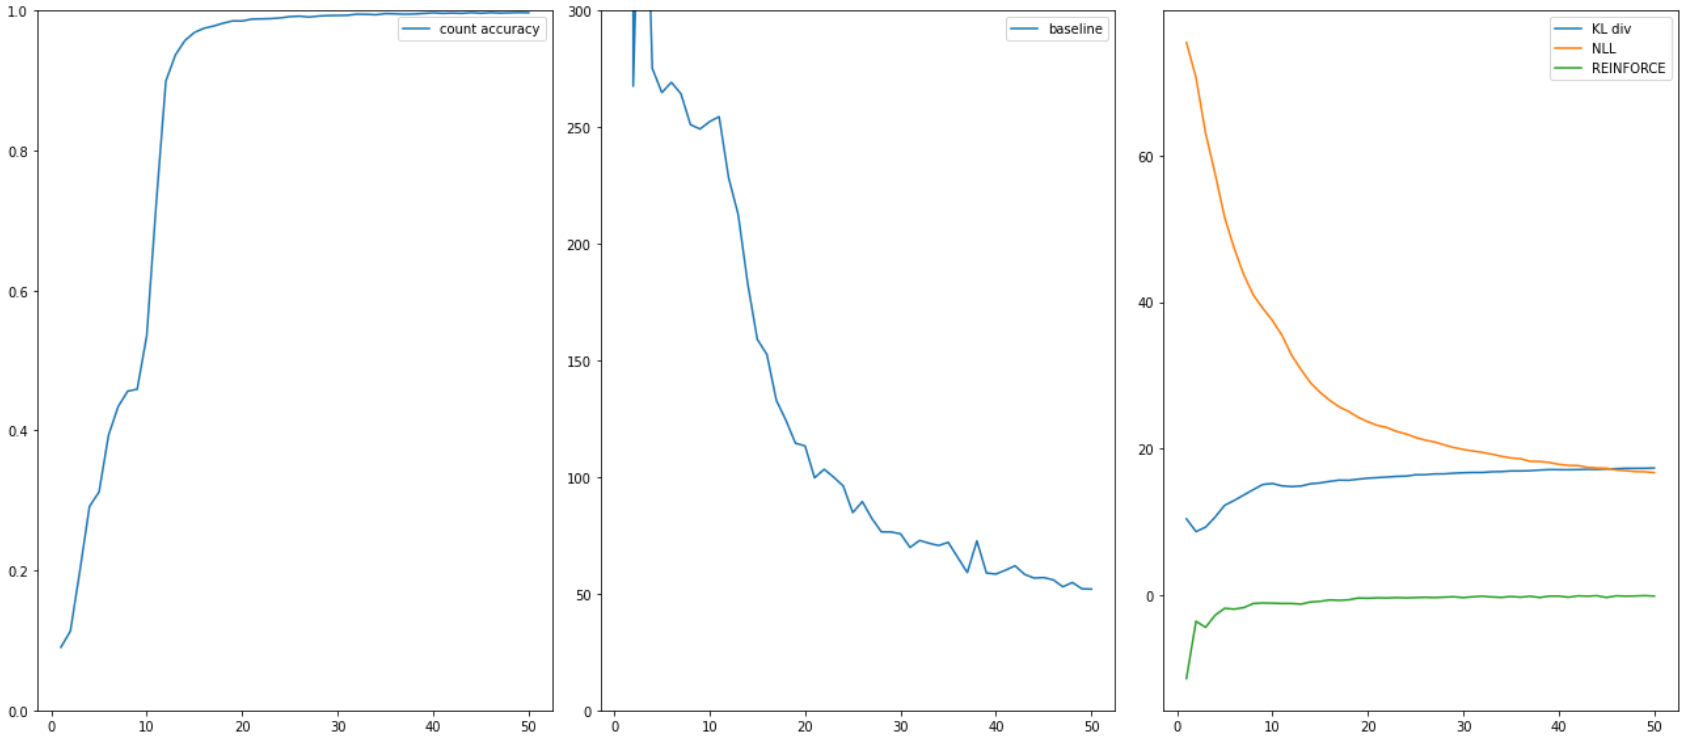
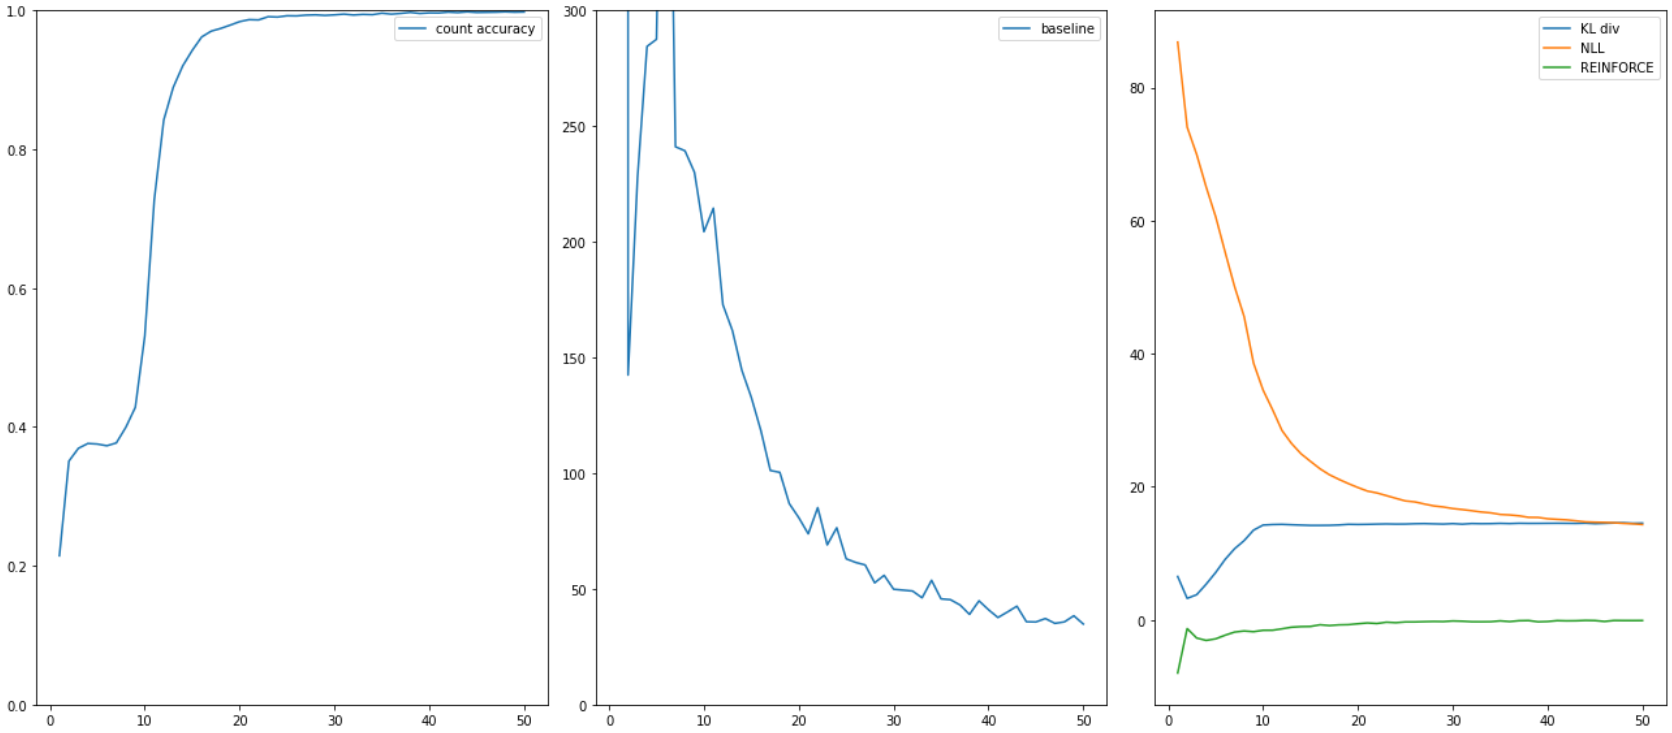
update AIR using absolute instead of sigmoid

diff --git a/_posts/101/probability_theory/2020-09-10-ELBO.md b/_posts/101/probability_theory/2020-09-10-ELBO.md
@@ -7,7 +7,7 @@ type: "101 probability"
 ---
 
 
-Consider the following case:  
+Consider the following case:
 Let $\textbf{X} = \\{\textbf{x}^{(i)}\\}\_{i=1}^N$ denote a dataset
 consisting of $N$ i.i.d. samples where each observed datapoint
 $\textbf{x}^{(i)}$ is generated from a process in which firstly a
@@ -22,21 +22,21 @@ p\_{\boldsymbol{\theta}}(\textbf{x}^{(i)})$ **given an variational
 approximation** $q\_{\boldsymbol{\phi}} \left(\textbf{z} |
 \textbf{x}^{(i)} \right)$ **of the true posterior**
 $p\_{\boldsymbol{\theta}} \left( \textbf{z} |
-\textbf{x}^{(i)}\right)$, i.e., 
+\textbf{x}^{(i)}\right)$, i.e.,
 
 $$
   0 \ge \log p_{\boldsymbol{\theta}} (\textbf{x}^{(i)}) = \underbrace{D_{KL} \left(
   q_{\boldsymbol{\phi}} \left( \textbf{z} | \textbf{x}^{(i)} \right)
-  || 
+  ||
   p_{\boldsymbol{\theta}} \left( \textbf{z} |
   \textbf{x}^{(i)}\right)\right)}_{\ge 0} + \mathcal{L} \left(
-  \boldsymbol{\theta}, \boldsymbol{\phi}; \textbf{x}^{(i)}\right) 
+  \boldsymbol{\theta}, \boldsymbol{\phi}; \textbf{x}^{(i)}\right)
 $$
 
-with 
+with
 
 $$
-  \log p_{\boldsymbol{\theta}} \ge 
+  \log p_{\boldsymbol{\theta}} \ge
   \mathcal{L} \left( \boldsymbol{\theta}, \boldsymbol{\phi};
   \textbf{x}^{(i)} \right) = - D_{KL} \left( q_{\boldsymbol{\phi}}
   \left( \textbf{z} | \textbf{x}^{(i)} \right) ||
@@ -47,9 +47,9 @@ $$
 $$
 
 where $p\_{\boldsymbol{\theta}} (\textbf{z})$ is a prior on the latent
-distribution. 
+distribution.
 
-Variational Bayesian methods are a very popular framework in machine 
+Variational Bayesian methods are a very popular framework in machine
 learning, since they allow to cast statistical inference problems into
 optimization problems. E.g., the inference problem of determining the
 true posterior distribution $p\_{\boldsymbol{\theta}} \left( \textbf{z} |
@@ -58,10 +58,10 @@ maximizing the ELBO using/introducing a variational approximation
 $q\_{\boldsymbol{\phi}} \left(\textbf{z} | \textbf{x} \right)$ and a
 latent prior $p\_{\boldsymbol{\theta}} (\textbf{z})$. This is the main
 idea of [variational auto-encoders
-VAEs](https://borea17.github.io/paper_summaries/auto-encoding_variational_bayes)
+(VAEs)](https://borea17.github.io/paper_summaries/auto-encoding_variational_bayes)
 by [Kingma and Welling (2013)](https://arxiv.org/abs/1312.6114).
 
-**Derivation**: 
+**Derivation**:
 
 Let's start with the optimization problem:
 
@@ -75,9 +75,9 @@ that the true probability distributions are as similiar as possible
 (have minimal KL divergence, just ignore the fact that the KL
 divergence is not symmetric). Actually, we cannot compute this
 quantity since we do not have access to the true posterior (if we had,
-we wouldn't need to introduce a variational approximation). 
+we wouldn't need to introduce a variational approximation).
 
-However, we can rewrite the KL divergence as follows 
+However, we can rewrite the KL divergence as follows
 
 $$
 \begin{align}
@@ -87,13 +87,13 @@ q_{\boldsymbol{\phi}} \left(\textbf{z} | \textbf{x} \right) \log \frac
 {q_{\boldsymbol{\phi}} \left(\textbf{z} | \textbf{x} \right)} {p_{\boldsymbol{\theta}} \left( \textbf{z} |
 \textbf{x}\right)} d\textbf{z}\\
 &= \mathbb{E}_{\textbf{z} \sim q_{\boldsymbol{\phi}} \left(\textbf{z}
-| \textbf{x} \right)} 
+| \textbf{x} \right)}
 \left[\log q_{\boldsymbol{\phi}} \left(\textbf{z} | \textbf{x} \right) - \log p_{\boldsymbol{\theta}} \left( \textbf{z} |
 \textbf{x}\right) \right]
 \end{align}
 $$
 
-Remember Bayes rule: 
+Remember Bayes rule:
 
 $$
 p_{\boldsymbol{\theta}} \left( \textbf{z} |
@@ -108,17 +108,17 @@ $$
 \begin{align}
 D_{KL} \left[ q_{\boldsymbol{\phi}} \left(\textbf{z} | \textbf{x} \right) || p_{\boldsymbol{\theta}} \left( \textbf{z} |
 \textbf{x}\right) \right] & =  \mathbb{E}_{\textbf{z} \sim q_{\boldsymbol{\phi}} \left(\textbf{z}
-| \textbf{x} \right)} 
+| \textbf{x} \right)}
 \left[ \log q_{\boldsymbol{\phi}} \left(\textbf{z} | \textbf{x}
 \right) - \left(\log  p_{\boldsymbol{\theta}} \left( \textbf{x} |
-\textbf{z} \right) + \log p_{\boldsymbol{\theta}} \left( \textbf{z} \right) 
+\textbf{z} \right) + \log p_{\boldsymbol{\theta}} \left( \textbf{z} \right)
 - \log p_{\boldsymbol{\theta}} \left(\textbf{x}\right)
  \right)\right] \\
  &=\mathbb{E}_{\textbf{z} \sim q_{\boldsymbol{\phi}} \left(\textbf{z}
-| \textbf{x} \right)} 
+| \textbf{x} \right)}
 \left[ \log q_{\boldsymbol{\phi}} \left(\textbf{z} | \textbf{x}
 \right) - \log  p_{\boldsymbol{\theta}} \left( \textbf{x} |
-\textbf{z} \right) - \log p_{\boldsymbol{\theta}} \left( \textbf{z} \right) 
+\textbf{z} \right) - \log p_{\boldsymbol{\theta}} \left( \textbf{z} \right)
 \right] + \log p_{\boldsymbol{\theta}} \left(\textbf{x}\right)
 \end{align}
 $$
@@ -132,10 +132,10 @@ $$
 \log p_{\boldsymbol{\theta}} \left(\textbf{x}\right) &=  D_{KL} \left[ q_{\boldsymbol{\phi}} \left(\textbf{z} | \textbf{x} \right) || p_{\boldsymbol{\theta}} \left( \textbf{z} |
 \textbf{x}\right) \right] \\
 &\quad - \underbrace{\mathbb{E}_{\textbf{z} \sim q_{\boldsymbol{\phi}} \left(\textbf{z}
-| \textbf{x} \right)} 
+| \textbf{x} \right)}
 \left[ \log q_{\boldsymbol{\phi}} \left(\textbf{z} | \textbf{x}
 \right) - \log  p_{\boldsymbol{\theta}} \left( \textbf{x} |
-\textbf{z} \right) - \log p_{\boldsymbol{\theta}} \left( \textbf{z} \right) 
+\textbf{z} \right) - \log p_{\boldsymbol{\theta}} \left( \textbf{z} \right)
 \right] + \log p_{\boldsymbol{\theta}} \left(\textbf{x}\right)}_{- \mathcal{L}}
 \end{align}
 $$
@@ -145,15 +145,15 @@ Some final rewritings
 $$
 \begin{align}
 \mathcal{L} &= - \mathbb{E}_{\textbf{z} \sim q_{\boldsymbol{\phi}} \left(\textbf{z}
-| \textbf{x} \right)} 
+| \textbf{x} \right)}
 \left[ \log q_{\boldsymbol{\phi}} \left(\textbf{z} | \textbf{x}
 \right) - \log  p_{\boldsymbol{\theta}} \left( \textbf{x} |
-\textbf{z} \right) - \log p_{\boldsymbol{\theta}} \left( \textbf{z} \right) 
+\textbf{z} \right) - \log p_{\boldsymbol{\theta}} \left( \textbf{z} \right)
 \right] \\
 &= -\mathbb{E}_{\textbf{z} \sim q_{\boldsymbol{\phi}} \left(\textbf{z}
-| \textbf{x} \right)} 
+| \textbf{x} \right)}
 \left[ \log q_{\boldsymbol{\phi}} \left(\textbf{z} | \textbf{x}
-\right) - \log p_{\boldsymbol{\theta}} \left( \textbf{z} \right) 
+\right) - \log p_{\boldsymbol{\theta}} \left( \textbf{z} \right)
 \right] + \mathbb{E}_{\textbf{z} \sim q_{\boldsymbol{\phi}} \left(\textbf{z}
 | \textbf{x} \right)} \left[ \log  p_{\boldsymbol{\theta}} \left( \textbf{x} |
 \textbf{z} \right)\right]\\

diff --git a/_posts/paper_summaries/2020-09-05-AIR_summary.md b/_posts/paper_summaries/2020-09-05-AIR_summary.md
@@ -661,15 +661,16 @@ parts:
     problems, e.g., numerical instabilities due to empty canvas (binary cross
     entropy can not be computed when probabilties are exactly 0) and due to
     clamping (as the sum over multiple bernoulli means could easily overshoot
-    1). While there might be some workarounds, I decided to take the easier
-    path: A **sigmoid layer with MSE loss**.
+    1). While there might be some workarounds, I decided to go an easier path.
 
-    To avoid vanishing gradients, we use a small variance for the Gaussian
-    decoder (i.e., scale the nll loss by some hyperparameter which is the
-    inverse of the fixed variance). Furthermore, the decoder is initialized to
-    generate mostly empty objects to encourage the model to use objects. This is
-    done by adding `SIGMOID_BIAS` to the input of the sigmoid layer[^8] as
-    suggested in [here](https://pyro.ai/examples/air.html#In-practice).
+  * **Output Distribution** $\mathbb{R}\_{+}$: This is motivated by the
+    observations I made during the *network initialization* approach. By
+    impeding the network to produce negative outputs, we indirectly force
+    outputs between $0$ and $1$. Thereby, we do not need to get our hands dirty
+    with a Bernoulli distribution or vanishing gradient problems. Furthermore,
+    we use Pytorch's default initialization[^8] to produce mostly empty objects.
+    This encourages the model to try out objects in the beginning of the
+    training.
 
 [^8]: Note that weights and biases of linear layers are [defaulty
     initialized](https://discuss.pytorch.org/t/how-are-layer-weights-and-biases-initialized-by-default/13073/2)
@@ -682,8 +683,7 @@ parts:
 WINDOW_SIZE = MNIST_SIZE        # patch size (in one dimension) of what-VAE
 Z_WHAT_HIDDEN_DIM = 400         # hidden dimension of what-VAE
 Z_WHAT_LATENT_DIM = 20          # latent dimension of what-VAE
-SIGMOID_BIAS = -3.              # bias to encourage objects use
-FIXED_VAR = 0.6**2              # fixed variance of Gaussian decoder
+FIXED_VAR = 0.5**2              # fixed variance of Gaussian decoder
 
 
 class VAE(nn.Module):
@@ -707,7 +707,6 @@ class VAE(nn.Module):
             nn.ReLU(),
             nn.Linear(Z_WHAT_HIDDEN_DIM, WINDOW_SIZE**2),
         )
-        self.bias = SIGMOID_BIAS
         return
 
     def forward(self, x_att_i):
@@ -729,7 +728,8 @@ class VAE(nn.Module):
     def decode(self, z_what_i):
         # get decoder distribution parameters
         x_tilde_att_i = self.decoder(z_what_i)
-        x_tilde_att_i = torch.sigmoid(x_tilde_att_i + self.bias)
+        # force output to be positive (EPS for numerical stability)
+        x_tilde_att_i = (x_tilde_att_i + EPS).abs()
         # reshape to [1, WINDOW_SIZE, WINDOW_SIZE] (input shape)
         x_tilde_att_i = x_tilde_att_i.view(-1, 1, WINDOW_SIZE, WINDOW_SIZE)
         return x_tilde_att_i{% endraw %}{% endcapture %}
@@ -867,7 +867,7 @@ EPS = 1e-32                           # numerical stability
 PRIOR_MEAN_WHERE = [3., 0., 0.]       # prior for mean of z_i_where
 PRIOR_VAR_WHERE = [0.1**2, 1., 1.]    # prior for variance of z_i_where
 PRIOR_P_PRES = [0.01]                 # prior for p_i_pres of z_i_pres
-BETA = 0.7                            # hyperparameter to scale KL div
+BETA = 0.5                            # hyperparameter to scale KL div
 OMEGA_DIM = Z_PRES_DIM + 2*Z_WHERE_DIM + 2*Z_WHAT_DIM
 
 
@@ -1212,7 +1212,7 @@ trained_air = train(air_model, train_dataset){% endraw %}{% endcapture %}
 This looks pretty awesome! It seems that our model nearly perfectly learns to
 count the number of digits without even knowing what a digit is.
 
-Let us look in more detail what's happening and plot the results of the model
+Let us take a closer look and plot the results of the model
 at different stages of the training against a test dataset.
 
 {% capture code %}{% raw %}def plot_results(dataset):
@@ -1271,14 +1271,15 @@ at different stages of the training against a test dataset.
     return
 
 
-test_dataset = generate_dataset(num_images=17, SEED=2)
+test_dataset = generate_dataset(num_images=300, SEED=2)
 plot_results(test_dataset){% endraw %}{% endcapture %}
 {% include code.html code=code lang="python" %}
 
 ![Test Results](/assets/img/010_AIR/test_results.png "Test Results")
 
 Very neat results, indeed! Note that this looks very similar to Figure 3 in the
-[AIR paper](https://arxiv.org/abs/1603.08575).
+[AIR paper](https://arxiv.org/abs/1603.08575). The accuracy on the left denotes
+the count accuracy of the test dataset.
 
 
 ### Closing Notes
@@ -1286,7 +1287,7 @@ Very neat results, indeed! Note that this looks very similar to Figure 3 in the
 Alright, time to step down from our high horse. Actually, it took me quite some
 time to tweak the hyperparameters to obtain such good results. I put a lot of
 prior knowledge into the model so that `completely unsupervised` is probably
-exaggerated. Using a slightly different setup might result in entirely different
+exaggerated. Using a slightly different setup might lead to entirely different
 results. Furthermore, even in this setup, there may be cases in which the training
 converges to some local maximum (depending on the random network initializations
 and random training dataset).

diff --git a/_posts/101/engineering/2020-10-11-sigmoid_loss.md b/_posts/101/engineering/2020-10-11-sigmoid_loss.md
@@ -121,7 +121,7 @@ $$
 \left(\widetilde{p}_i - p_i \right)^2,
 $$
 
-The gradient w.r.t. network parameters will proportional to the gradient w.r.t.
+The gradient w.r.t. network parameters will be proportional to the gradient w.r.t.
 $\textbf{x}$ (backpropagation rule) which is as follows
 
 $$
